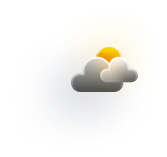
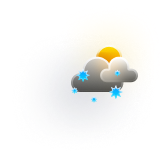
adde design, btn for scroll, datas from api

diff --git a/modules/graphic.py b/modules/graphic.py
@@ -1,50 +1,97 @@
 import PyQt6.QtCore as core
 import PyQt6.QtWidgets as widgets
-import json
+import json, os
 from .frame import Frame_create
 from utils import api_request_func
+from .load_img import ImageLoad
 
 class Graphic:
-    def __init__(self, content_frame):
+    def __init__(self, content_frame, name_city):
         self.FRAME_LAYOUT = widgets.QVBoxLayout()
-        self.frame = Frame_create(self.FRAME_LAYOUT, color= "red", width=799, height= 197)
+        self.frame = Frame_create(self.FRAME_LAYOUT, color="transparent",  width=799, height= 197)
+        self.frame.setStyleSheet("background-color: rgba(0, 0, 0, 51); border-radius: 10px")
         content_frame.addWidget(self.frame)
-
-        self.FRAME1_LAYOUT = widgets.QHBoxLayout()
-        frame1 = Frame_create(layout= self.FRAME1_LAYOUT, color="green", width=730, height= 24)
+        self.LAYOUT_LAYOUT = widgets.QVBoxLayout()
+        frame_labl = Frame_create(layout = self.LAYOUT_LAYOUT, color = "transparent", width = 730, height = 24)
+        # self.FRAME_LAYOUT.setAlignment(core.Qt.AlignmentFlag.AlignCenter)
+        self.FRAME_LAYOUT.addWidget(frame_labl)
+        FRAME1_LAYOUT = widgets.QHBoxLayout()
+        FRAME1_LAYOUT.setContentsMargins(0, 0, 0, 0)
+        FRAME1_LAYOUT.setSpacing(0)
+        frame1 = Frame_create(layout= FRAME1_LAYOUT, color="transparent", width=730, height= 34)
+        for i in range(11):
+            IMAGE = ImageLoad(16, 16, frame1, 'IMG.png')
+            FRAME1_LAYOUT.addWidget(IMAGE)
         self.FRAME_LAYOUT.addWidget(frame1)
 
+        self.LABEL = widgets.QLabel(text = "Прогноз на 12 годин", parent=frame_labl)
+        self.LABEL.setStyleSheet('font-size: 16px')
+        self.LABEL.setFixedWidth(200)
         self.FRAME2_LAYOUT = widgets.QHBoxLayout()
         self.FRAME2_LAYOUT.setContentsMargins(0, 0, 0, 0)
         self.FRAME2_LAYOUT.setSpacing(10)
         self.FRAME2_LAYOUT.setAlignment(core.Qt.AlignmentFlag.AlignLeft)
-        frame2 = Frame_create(self.FRAME2_LAYOUT, color= "blue")
+        frame2 = Frame_create(self.FRAME2_LAYOUT)
+        frame2.setObjectName("CONTENT")
+        path_img = os.path.abspath(os.path.join(__file__, "..", "..", "media", "graphic.png"))
+        frame2.setStyleSheet(f'''
+                            #CONTENT{{
+                                background-image: url({path_img});
+                                background-color:transparent
+                            
+                            }}''')
         frame2.setFixedWidth(730)
         self.FRAME_LAYOUT.addWidget(frame2)
         
         self.TEMPERATURE_GRAPH_FRAME_LAYOUT = widgets.QHBoxLayout()
         self.TEMPERATURE_GRAPH_FRAME_LAYOUT.setContentsMargins(0, 0, 0, 0)
         self.TEMPERATURE_GRAPH_FRAME_LAYOUT.setAlignment(core.Qt.AlignmentFlag.AlignBottom)
-        temperature_graph_frame = Frame_create(layout=self.TEMPERATURE_GRAPH_FRAME_LAYOUT, width= None, height=None)
+        temperature_graph_frame = Frame_create(layout=self.TEMPERATURE_GRAPH_FRAME_LAYOUT, width= None, height=None, color="transparent")
         temperature_graph_frame.setMaximumSize(727, 136)
         
         self.FRAME2_LAYOUT.addWidget(temperature_graph_frame)
-        data_dict = api_request_func("Miami")
+        data_dict = api_request_func(name_city)
+        list_temp = []
         for hour_data in data_dict["list"]:
+            list_temp.append(int(hour_data["main"]["temp"]))
             temperature = int(hour_data["main"]["temp"])
             
             height = 0
             
             if temperature < 0 :
-                height = (temperature * -2)  + 30
+                height = (temperature * -2)  + 60
             elif temperature == 0:
-                height = 30
+                height = 80
+                
             else:
                 height = temperature * 2 
-            
+            height = max(height, 60)
             self.COLUMN = widgets.QFrame(temperature_graph_frame)
             self.COLUMN.setFixedSize(core.QSize(8, height))
-            self.COLUMN.setStyleSheet("background-color: gray; ")
+            self.COLUMN.setStyleSheet("background-color: qlineargradient(spread:pad, x1:1, y1:0, x2:1, y2:1, stop:0 #FFDF56, stop:1 #87CEFA);")
             self.TEMPERATURE_GRAPH_FRAME_LAYOUT.addWidget(self.COLUMN, alignment = core.Qt.AlignmentFlag.AlignBottom)
+        self.LAYOUT_VERTICAL = widgets.QVBoxLayout()
+        frame_temp = Frame_create(layout=self.LAYOUT_VERTICAL, color="transparent", width=50, height=146)
+        self.LAYOUT_VERTICAL.setContentsMargins(0, 0, 0, 15)
+        self.LAYOUT_VERTICAL.setSpacing(0)
+        list_temp.sort(reverse= True)
+        new_list_temp = []
+        for i in list_temp:
+            if i is not new_list_temp:
+                new_list_temp.append(i)
+        a = 0
+        for i in new_list_temp:
+            a +=1
+            if a >=8: 
+                break
+            label = widgets.QLabel(f'{i}°')
+            label.setStyleSheet("font-size: 12px; color: white;")
+            label.setAlignment(core.Qt.AlignmentFlag.AlignCenter)
+            # label.setFixedHeight(label_height)
+            self.LAYOUT_VERTICAL.addWidget(label, alignment=core.Qt.AlignmentFlag.AlignHCenter)
+
+
+        self.FRAME2_LAYOUT.addWidget(frame_temp, alignment=core.Qt.AlignmentFlag.AlignBottom)
+                
     def delete_graphic(self):
         self.frame.setParent(None)

diff --git a/modules/weather_per_hour.py b/modules/weather_per_hour.py
@@ -4,9 +4,11 @@ import PyQt6.QtGui as gui
 from .frame import Frame_create
 from .load_img import ImageLoad
 import os
+from utils.api_request import api_request_func
 
 class Weather_per_hour:
-    def __init__(self, frame):
+    def __init__(self, frame, name_city):
+        data_dict = api_request_func(name_city)
         self.LAYOUT_MAIN = widgets.QVBoxLayout()
         self.LAYOUT_MAIN.setAlignment(core.Qt.AlignmentFlag.AlignLeft)
         self.FRAME_MAIN = Frame_create(self.LAYOUT_MAIN, width = 788, height = 157)
@@ -39,7 +41,7 @@ class Weather_per_hour:
         self.BUTTON.setIcon(self.ICON_BUTTON)
         # self.BUTTON.setIconSize(core.QSize(40, 82))
         self.FRAME_PEAGTIJ_LAYOUT.addWidget(self.BUTTON)
-
+        self.BUTTON.clicked.connect(self.scroll_to_start)
         
         self.SCROLL_WEATHER = widgets.QScrollArea(parent= self.FRAME_PAERT)
         self.SCROLL_WEATHER.setHorizontalScrollBarPolicy(core.Qt.ScrollBarPolicy.ScrollBarAlwaysOff)
@@ -51,12 +53,19 @@ class Weather_per_hour:
         self.SCROLL_FRAME_WEATHER_LAYOUT.setContentsMargins(0, 0, 0, 0)
         self.SCROLL_FRAME_WEATHER_LAYOUT.setSpacing(0)
         self.SCROLL_FRAME_WEATHER.setLayout(self.SCROLL_FRAME_WEATHER_LAYOUT)
-        for i in range(25):
+        list_temp_time = []
+        # list_time = []
+        for hour_data in data_dict["list"]:
+            temperature = int(hour_data["main"]["temp"])
+            # list_temp_time.append(temperature)
+            time = hour_data["dt_txt"]
+            list_temp_time.append((temperature, time[11:13]))
+        for temp, time2 in list_temp_time:
             self.SCROLL_WEATHER.setWidget(self.SCROLL_FRAME_WEATHER)
             self.HORIZONTAL_LAYOUT = widgets.QVBoxLayout()
             self.FRAME_MAIN2 = Frame_create(self.HORIZONTAL_LAYOUT, width = 50, height = 92, color= "transparent")
-            self.LABEL_TIME = widgets.QLabel("22")
-            self.LABEL_MIN_TEMP = widgets.QLabel("0°")
+            self.LABEL_TIME = widgets.QLabel(f"{time2}")
+            self.LABEL_MIN_TEMP = widgets.QLabel(f"{temp}°")
             self.HORIZONTAL_LAYOUT.addWidget(self.LABEL_TIME)
             self.IMAGE = ImageLoad(25, 25, self.FRAME_MAIN2, 'example.png')
             self.HORIZONTAL_LAYOUT.addWidget(self.IMAGE)
@@ -72,6 +81,15 @@ class Weather_per_hour:
         self.BUTTON2.setIcon(self.ICON_BUTTON2)
         # self.BUTTON2.setIconSize(core.QSize(40, 82))
         self.FRAME_PEAGTIJ_LAYOUT.addWidget(self.BUTTON2)
+        self.BUTTON2.clicked.connect(self.scroll_to_end)
 
     def weather_per_hour(self):
         self.FRAME_MAIN.setParent(None)
+    def scroll_to_end(self):
+        """Прокрутка QScrollArea в конец по вертикали"""
+        scrollbar = self.SCROLL_WEATHER.horizontalScrollBar()
+        scrollbar.setValue(scrollbar.maximum())
+    def scroll_to_start(self):
+        """Прокрутка QScrollArea в начало по вертикали"""
+        scrollbar = self.SCROLL_WEATHER.horizontalScrollBar() 
+        scrollbar.setValue(scrollbar.minimum())

diff --git a/modules/card.py b/modules/card.py
@@ -67,7 +67,8 @@ class Card(widgets.QFrame):
         frame_degree = Frame_create(layout=self.LAYOUT_DEGREE, width=67, height=52)
         self.DEGREE = widgets.QLabel(parent= frame_degree, text= f"{self.TEMP2}°") 
         self.DEGREE.setStyleSheet("font-size: 40px; background-color: transparent; font-weight: 700") 
-
+        if len(self.CITY_NAME2) > 5:
+            self.CITY_NAME2 = self.CITY_NAME2[:4] + "..."
         self.CITY_NAME = widgets.QLabel(parent= frame3, text= self.CITY_NAME2)
         self.TIME = widgets.QLabel(parent= frame3, text=self.time_final)
         self.CITY_NAME.setStyleSheet("font-size: 24px; background-color: transparent; font-weight: 700")
@@ -157,11 +158,15 @@ class Card(widgets.QFrame):
             img
         )
         Card.active_per_hour = Weather_per_hour(
-            frame = self.RIGHT_LAYOUT_FRAME
+            frame = self.RIGHT_LAYOUT_FRAME,
+            name_city= self.CITY_NAME2
         )
         Card.active_grafic = Graphic(
-            self.CONTENT_FRAME
+            self.CONTENT_FRAME,
+            self.CITY_NAME2
         )
+        if len(self.CITY_NAME2) > 5:
+            self.CITY_NAME2 = self.CITY_NAME2[:4] + "..."
         # Обновляем визуальные элементы после новых запросов в апи
         self.CITY_NAME.setText(self.CITY_NAME2)
         self.DEGREE.setText(f"{self.TEMP2}°")

diff --git a/modules/scroll_frame.py b/modules/scroll_frame.py
@@ -18,11 +18,14 @@ class Scroll_frame(widgets.QScrollArea):
             "Чернівці",
             "Тернопіль"
         ]
+        
         self.setVerticalScrollBarPolicy(core.Qt.ScrollBarPolicy.ScrollBarAlwaysOff)
         self.setFixedSize(370, 727)
         self.setStyleSheet("border: none; background-color: transparent")
         self.setWidgetResizable(True)
         self.SCROLL_FRAME = widgets.QFrame(parent = self)
+        
+        
         self.SCROLL_FRAME_LAYOUT = widgets.QVBoxLayout()
         self.SCROLL_FRAME_LAYOUT.setSpacing(0)
         self.SCROLL_FRAME.setLayout(self.SCROLL_FRAME_LAYOUT)
@@ -34,7 +37,6 @@ class Scroll_frame(widgets.QScrollArea):
                 right_layout_frame= right_layout_frame,
                 content_frame = content_frame
                 )
-
 
             self.SCROLL_FRAME_LAYOUT.addWidget(card)
 

diff --git a/modules/info_from_api.py b/modules/info_from_api.py
@@ -6,6 +6,7 @@ def info_for_card(city_name: str):
     first = data["list"][0]  # берем первый час
 
     temp = int(first["main"]["temp"])
+    # print(temp)
     max_temp = int(first["main"]["temp_max"])
     min_temp = int(first["main"]["temp_min"])
     info_weather = first["weather"][0]["description"]
@@ -19,9 +20,9 @@ def info_for_card(city_name: str):
         "хмарно": "cloud.png",
         "дощ": "rain.png",
         "гроза": "thenderstorm.png",
-        "сніг": "snow.png",
-        "туман": "fog.png"
+        "легкий сніг": "snow.png",
+        "туман": "fog.png",
+        "кілька хмар": "few_clouds.png"
     }
     icon_get = icon_dict[icon]
-    # print(icon_get)
     return city_name, temp, info_weather, max_temp, min_temp, timezone_offset, icon_get

diff --git a/modules/window.py b/modules/window.py
@@ -52,8 +52,9 @@ class MainWindow(widgets.QMainWindow):
         self.LEFT_FRAME_LAYOUT = widgets.QVBoxLayout()
         left_frame = Frame_create(layout= self.LEFT_FRAME_LAYOUT, width=370, height= 800)
         self.LAYOUT_RIGHT_FRAME = widgets.QVBoxLayout()
+        self.LAYOUT_RIGHT_FRAME.setContentsMargins(0, 0, 0, 0)
         self.RIGHT_FRAME = Frame_create(self.LAYOUT_RIGHT_FRAME, 828, 800)
-        self.CONTENT_FRAME_LAYOUT.setContentsMargins(0, 0, 0, 0)
+        self.LAYOUT_RIGHT_FRAME.setContentsMargins(0, 0, 0, 10)
         left_frame.setLayout(self.LEFT_FRAME_LAYOUT)
         left_frame.setStyleSheet("background-color: rgba(0, 0, 0, 100)")
         self.CONTENT_FRAME_LAYOUT.addWidget(left_frame)
